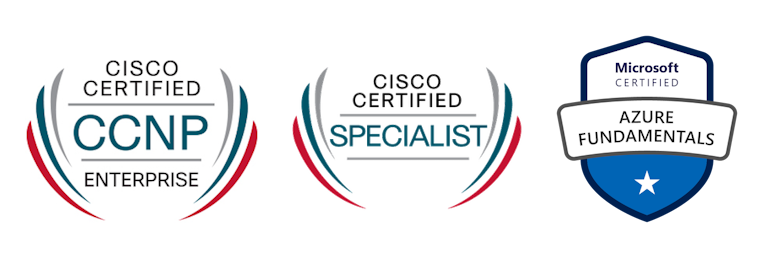
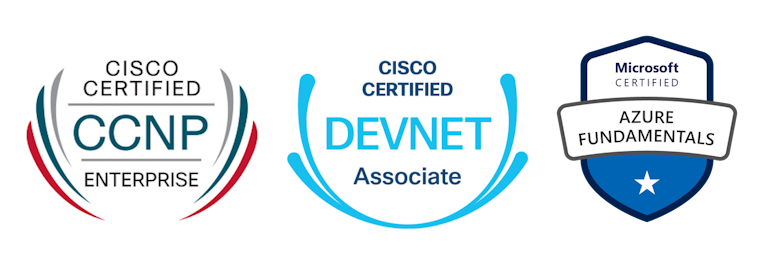
Devnet Associate  updates

Changed region(s): [[0.375, 0.2188, 0.6875, 0.9062]]

diff --git a/index.html b/index.html
@@ -91,7 +91,11 @@
     <div class="proj-container" id="projContainer"
     
         <div class="scroll-content">
-            
+            <div class="col2" style="background-image: url('image/proj7.png');background-size: 115%;">
+                <p class="name">Cisco DevNet Study     </p>
+                <p class="title">2025</p>
+            </div>
+
             <div class="col2" style="background-image: url('image/proj6.svg');background-size: 115%;">
                 <p class="name">Azure Study     </p>
                 <p class="title">2025</p>
